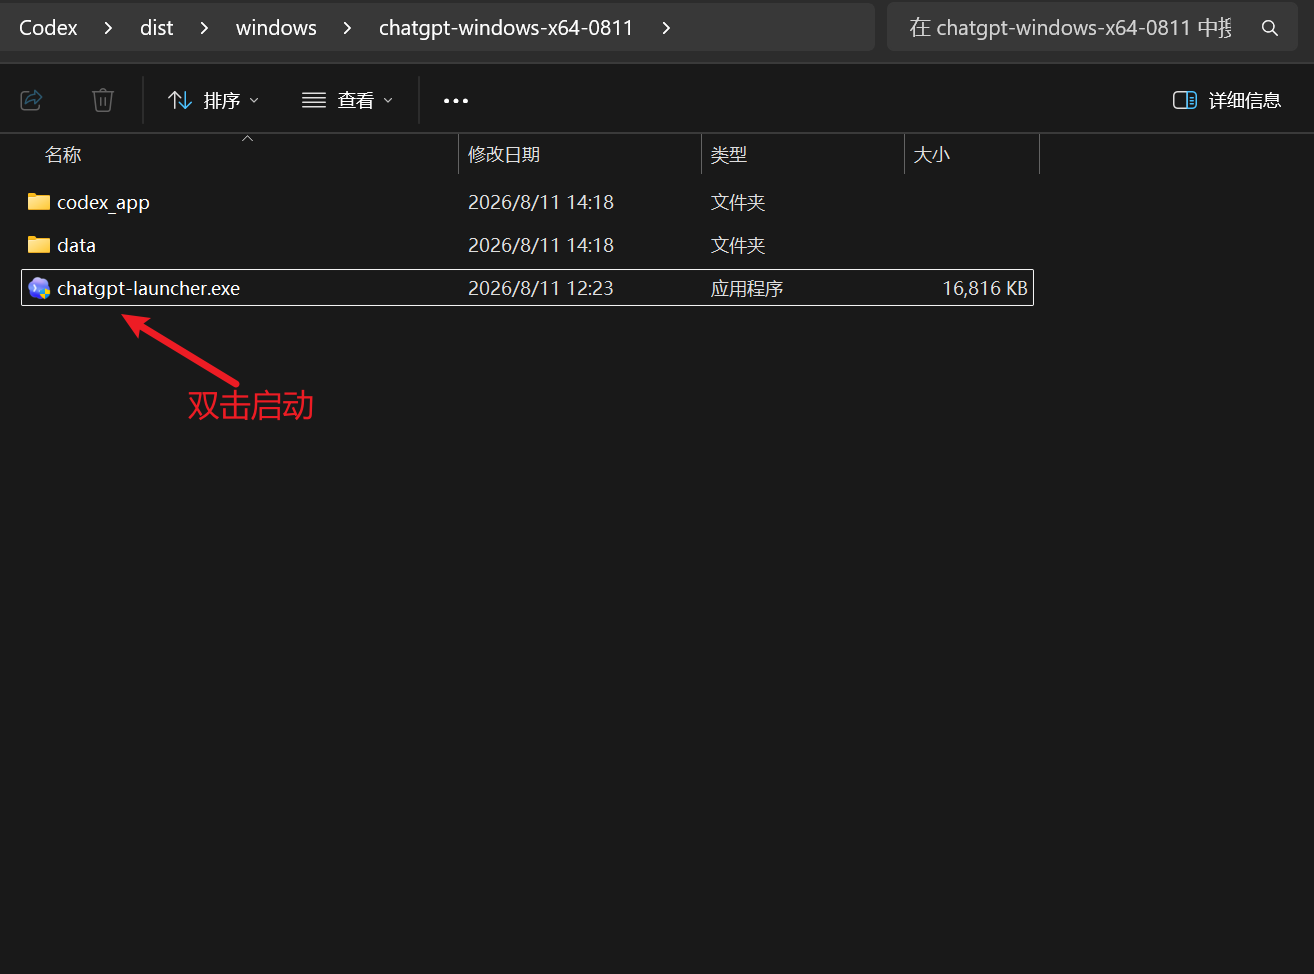
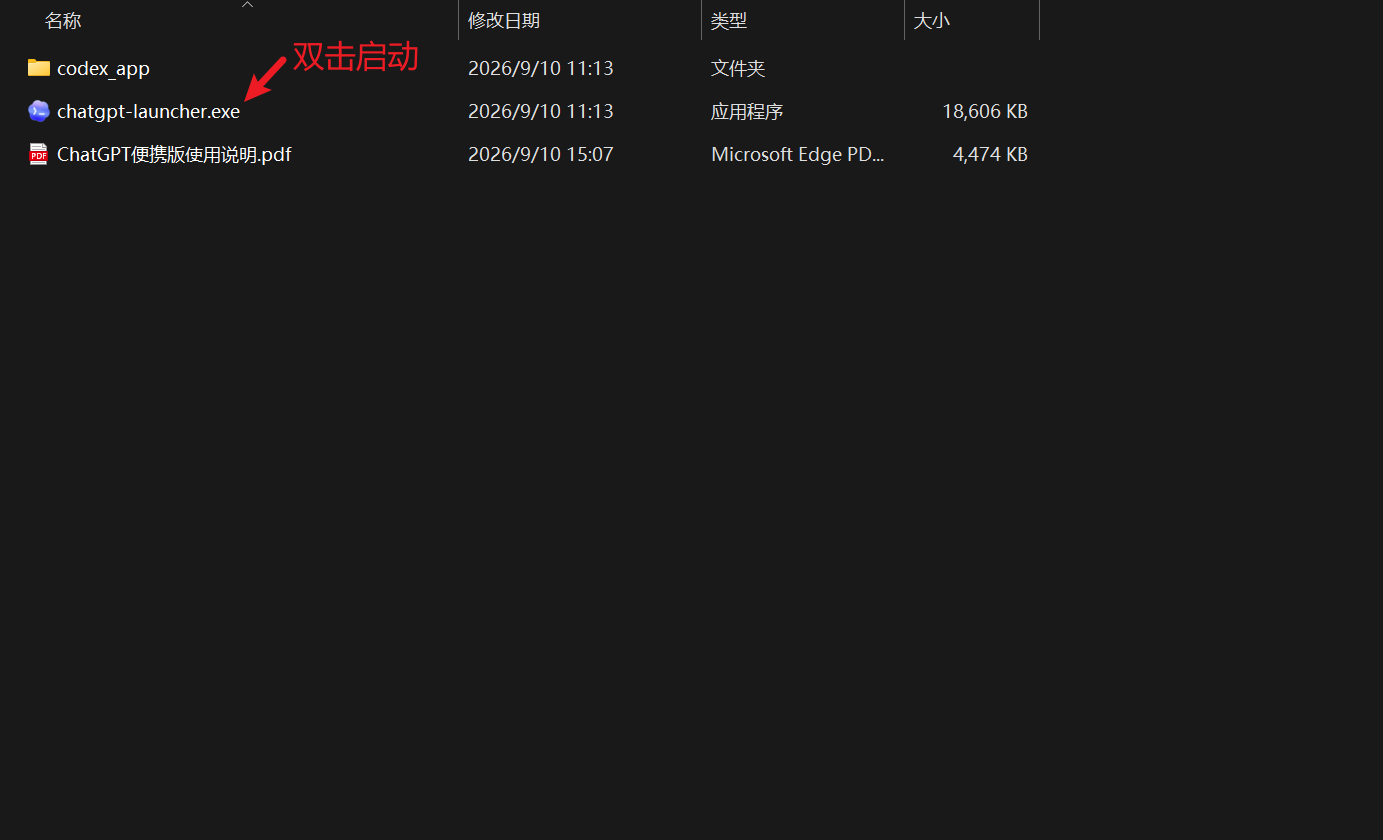
docs(portable): add the macOS folder screenshots for install + launch
- 步骤 4「安装官方 ChatGPT 应用」配图 安装官方.png（箭头指向 ChatGPT.dmg）。
- 新增步骤 5「打开便携启动器」配图 启动便携式mac.png（箭头指向 ChatGPT
  Launcher）；原「首次打开」拆为独立的步骤 6，后续步骤顺延到 14。
- 更新 Windows 步骤 4 截图为新包结构（启动器 + codex_app + 使用说明 PDF）。

diff --git a/docs/ChatGPT便携版使用说明-macOS.md b/docs/ChatGPT便携版使用说明-macOS.md
@@ -33,27 +33,35 @@
 
 ### 4. 安装官方 ChatGPT 应用
 
-启动器需要配合官方 ChatGPT 应用使用。若尚未安装，请打开包内的 `ChatGPT.dmg`，把 **ChatGPT** 拖入“应用程序”文件夹（通常安装为 `/Applications/ChatGPT.app`）。如果 ChatGPT 应用正在运行，请先按 **⌘Q** 完全退出。
+启动器需要配合官方 ChatGPT 应用使用。若尚未安装，请打开压缩包内的 `ChatGPT.dmg`，把 **ChatGPT** 拖入“应用程序”文件夹（通常安装为 `/Applications/ChatGPT.app`）。如果 ChatGPT 应用正在运行，请先按 **⌘Q** 完全退出。
 
-### 5. 首次打开：先点“完成”
+![打开压缩包内的 ChatGPT.dmg](assets/chatgpt-usage-macos/安装官方.png)
 
-解压压缩包后双击 `ChatGPT Launcher.app`。由于未经 Apple 公证，会弹出“未打开……Apple 无法验证是否包含恶意软件”。**先点“完成”**（不要点“移到废纸篓”）。
+### 5. 打开便携启动器
+
+回到压缩包解压出的文件夹，双击 **`ChatGPT Launcher`**。
+
+![双击 ChatGPT Launcher](assets/chatgpt-usage-macos/启动便携式mac.png)
+
+### 6. 首次打开被拦截：先点“完成”
+
+`ChatGPT Launcher` 未经 Apple 公证，首次打开会弹出“未打开……Apple 无法验证是否包含恶意软件”。**先点“完成”**（不要点“移到废纸篓”）。
 
 ![首次打开的安全提示](assets/chatgpt-usage-macos/未打开程序.png)
 
-### 6. 在“系统设置”中放行
+### 7. 在“系统设置”中放行
 
 打开 **系统设置 → 隐私与安全性**，滚动到“安全性”一节，在“已阻止 “ChatGPT Launcher” 以保护 Mac”处点 **“仍要打开”**（可能需要用触控 ID 或密码确认）。
 
 ![在“隐私与安全性”中点“仍要打开”](assets/chatgpt-usage-macos/仍要打开.png)
 
-### 7. 确认打开
+### 8. 确认打开
 
-在弹出的确认框中再次点 **“仍要打开”**。之后双击 `ChatGPT Launcher.app` 就能正常启动，不会再拦截。
+在弹出的确认框中再次点 **“仍要打开”**。之后双击 `ChatGPT Launcher` 就能正常启动，不会再拦截。
 
 ![确认框中再点“仍要打开”](assets/chatgpt-usage-macos/仍要打开2.png)
 
-### 8. 填写连接信息
+### 9. 填写连接信息
 
 首次启动会弹出配置窗口：
 
@@ -68,19 +76,19 @@
 
 配置会保存到 `~/Library/Application Support/ChatGPT Launcher/config.ini`。该文件包含 API Key，请妥善保管。
 
-### 9. 完成 ChatGPT 首次设置
+### 10. 完成 ChatGPT 首次设置
 
 首次运行 ChatGPT 时，按界面提示选择一个工作类别并继续。若 macOS 请求授予 ChatGPT 一次性权限，请确认发布者后点击“允许”。
 
 ![选择工作类别](assets/chatgpt-usage/步骤6-启动成功.png)
 
-### 10. 放入“应用程序”或 Dock
+### 11. 放入“应用程序”或 Dock
 
 把 `ChatGPT Launcher.app` 拖进“应用程序”文件夹或 Dock。以后单击即可启动，无需重复填写 API 信息（macOS 版不会自动创建桌面图标）。
 
 ## 三、日常使用
 
-### 11. 切换工作模式
+### 12. 切换工作模式
 
 点击左上角的 **Codex** 下拉菜单，可以在 **ChatGPT Work** 与 **Codex** 之间切换：
 
@@ -89,7 +97,7 @@
 
 ![切换工作模式](assets/chatgpt-usage/步骤8-切换模式.png)
 
-### 12. 切换模型
+### 13. 切换模型
 
 在输入框右下角点击当前模型名称，选择所需模型。只有服务商为当前 API Key 所属分组开通的模型才能正常使用。
 
@@ -101,7 +109,7 @@
 2. 或回到服务商后台，为密钥选择支持目标模型的分组后重新创建密钥。
 3. 保存配置并重新启动启动器。
 
-### 13. 开始对话
+### 14. 开始对话
 
 选择模式和模型后，直接在输入框描述需求即可。对于编程任务，建议同时说明：目标、已有代码/报错、期望输出及限制条件。
 
@@ -117,7 +125,7 @@
 
 | 现象 | 处理方式 |
 | --- | --- |
-| 首次打开被 macOS 拦截 | 按“二、安装与首次启动”的第 5–7 步操作：先点“完成”，再到 系统设置 → 隐私与安全性 点“仍要打开”，最后在确认框里再点一次“仍要打开”。 |
+| 首次打开被 macOS 拦截 | 按“二、安装与首次启动”的第 6–8 步操作：先点“完成”，再到 系统设置 → 隐私与安全性 点“仍要打开”，最后在确认框里再点一次“仍要打开”。 |
 | 启动器找不到 ChatGPT App | 在配置窗口点击“浏览”，选择“应用程序”里的官方应用（`ChatGPT.app` / `Codex.app` / `OpenAI Codex.app`）；确认已按第 4 步安装官方应用。 |
 | 双击后自动打开了“终端”窗口 | 运行的是未打包的裸可执行文件，请改用 `ChatGPT Launcher.app`。 |
 | 提示“App 已损坏，应移到废纸篓” | 压缩包经网络传输被加了隔离标记。在“终端”运行 `xattr -dr com.apple.quarantine "ChatGPT Launcher.app"` 后重试。 |

diff --git a/docs/assets/chatgpt-usage-macos/README.md b/docs/assets/chatgpt-usage-macos/README.md
@@ -6,18 +6,18 @@
 
 | 文件 | 对应步骤 | 内容 |
 | --- | --- | --- |
-| `未打开程序.png` | 5. 首次打开：先点“完成” | “未打开 …… Apple 无法验证”弹窗（按钮：完成 / 移到废纸篓） |
-| `仍要打开.png` | 6. 在“系统设置”中放行 | 系统设置 → 隐私与安全性，“已阻止 …… 以保护 Mac” + “仍要打开” |
-| `仍要打开2.png` | 7. 确认打开 | 二次确认框（移到废纸篓 / 仍要打开 / 完成） |
-| `程序界面.png` | 8. 填写连接信息 | macOS 版配置窗口（Cocoa 外观） |
+| `安装官方.png` | 4. 安装官方 ChatGPT 应用 | 压缩包文件夹，红箭头指向 `ChatGPT.dmg` |
+| `启动便携式mac.png` | 5. 打开便携启动器 | 同一文件夹，红箭头指向 `ChatGPT Launcher` |
+| `未打开程序.png` | 6. 首次打开被拦截：先点“完成” | “未打开 …… Apple 无法验证”弹窗（按钮：完成 / 移到废纸篓） |
+| `仍要打开.png` | 7. 在“系统设置”中放行 | 系统设置 → 隐私与安全性，“已阻止 …… 以保护 Mac” + “仍要打开” |
+| `仍要打开2.png` | 8. 确认打开 | 二次确认框（移到废纸篓 / 仍要打开 / 完成） |
+| `程序界面.png` | 9. 填写连接信息 | macOS 版配置窗口（Cocoa 外观） |
 
 ## 未配图的步骤
 
-以下步骤目前是纯文字（动作简单，不强制配图）。想加图就补对应截图并在
-`.md` 里加一行 `![](assets/chatgpt-usage-macos/<文件名>.png)`：
+以下步骤是纯文字（动作简单，不强制配图）：
 
-- 4. 安装官方 ChatGPT 应用 —— `ChatGPT.dmg` 拖入“应用程序”
-- 10. 放入“应用程序”或 Dock —— 把 `ChatGPT Launcher.app` 拖进 Dock
+- 11. 放入“应用程序”或 Dock —— 把 `ChatGPT Launcher` 拖进 Dock
 
 ## 复用 Windows 版的截图（与平台无关，无需重拍）
 
